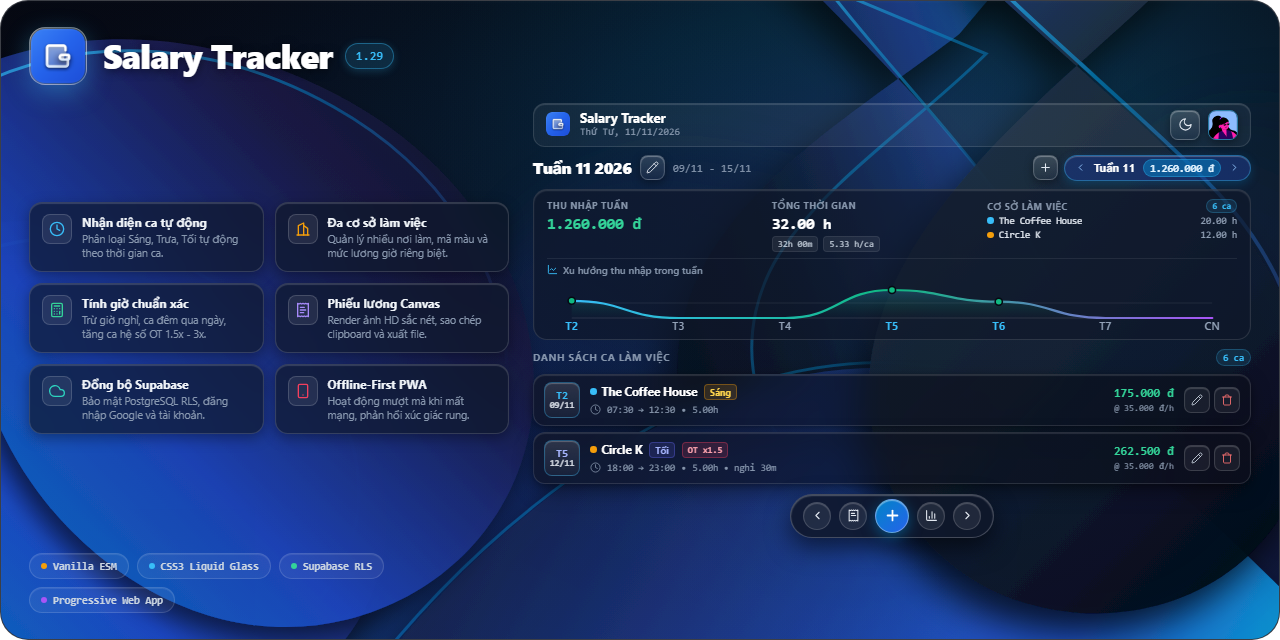
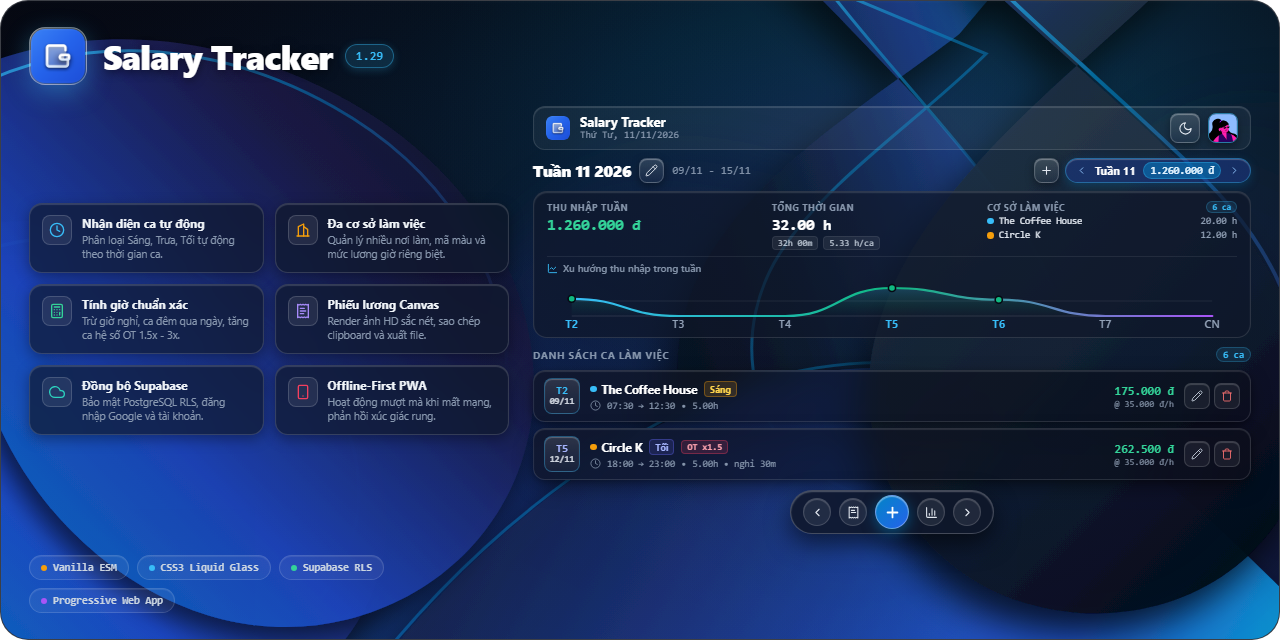
fix(profile): fix password button shadow clipping and remake showcase poster

diff --git a/css/modals.css b/css/modals.css
@@ -1029,7 +1029,7 @@ body.dark-mode .btn-table-delete:hover {
   background: #f8fafc;
   border: 1px solid rgba(15, 23, 42, 0.12);
   border-radius: var(--radius-md);
-  padding: 0.75rem 0.85rem;
+  padding: 0.85rem 0.95rem;
   box-shadow: 0 1px 2px rgba(15, 23, 42, 0.04);
 }
 
@@ -1436,7 +1436,7 @@ input[type="password"] {
   max-height: 540px;
   opacity: 1;
   overflow: visible;
-  padding: 8px 8px 12px;
+  padding: 8px 2px 4px;
   transform: translateY(0) scaleY(1);
   pointer-events: auto;
 }
@@ -2101,10 +2101,46 @@ body.dark-mode .profile-legal-box {
 }
 
 .auth-actions-group {
-  margin-top: 0.35rem;
+  margin-top: 0.55rem;
   display: flex;
   justify-content: flex-end;
-  padding: 4px;
+  align-items: center;
+  padding: 2px 0;
+}
+
+#btnSubmitChangePassword {
+  background: #2563eb !important;
+  border: 1px solid #1d4ed8 !important;
+  color: #ffffff !important;
+  box-shadow: 0 1px 2px rgba(15, 23, 42, 0.08) !important;
+  backdrop-filter: none !important;
+  -webkit-backdrop-filter: none !important;
+  transition: background-color 0.14s ease, border-color 0.14s ease, box-shadow 0.14s ease, transform 0.1s ease !important;
+}
+
+#btnSubmitChangePassword:hover {
+  background: #1d4ed8 !important;
+  border-color: #1e40af !important;
+  box-shadow: 0 2px 4px rgba(15, 23, 42, 0.12) !important;
+}
+
+#btnSubmitChangePassword:active {
+  transform: scale(0.96) !important;
+}
+
+body.dark-mode #btnSubmitChangePassword {
+  background: #2563eb !important;
+  border: 1px solid #3b82f6 !important;
+  color: #ffffff !important;
+  box-shadow: 0 1px 3px rgba(0, 0, 0, 0.4) !important;
+  backdrop-filter: none !important;
+  -webkit-backdrop-filter: none !important;
+}
+
+body.dark-mode #btnSubmitChangePassword:hover {
+  background: #3b82f6 !important;
+  border-color: #60a5fa !important;
+  box-shadow: 0 2px 6px rgba(0, 0, 0, 0.5) !important;
 }
 
 .btn-submit-action {

diff --git a/index.html b/index.html
@@ -39,9 +39,9 @@
     href="https://fonts.googleapis.com/css2?family=Be+Vietnam+Pro:wght@400;500;600;700&family=JetBrains+Mono:wght@400;500;600;700&display=swap"
     rel="stylesheet">
 
-  <link rel="stylesheet" href="./css/base.css?v=20261113">
-  <link rel="stylesheet" href="./css/components.css?v=20261113">
-  <link rel="stylesheet" href="./css/modals.css?v=20261113">
+  <link rel="stylesheet" href="./css/base.css?v=20261120">
+  <link rel="stylesheet" href="./css/components.css?v=20261120">
+  <link rel="stylesheet" href="./css/modals.css?v=20261120">
   <script>
     (function() {
       try {

diff --git a/sw.js b/sw.js
@@ -1,11 +1,11 @@
-const CACHE_NAME = 'salary-tracker-v248';
+const CACHE_NAME = 'salary-tracker-v249';
 const CORE_ASSETS = [
   './',
   './index.html',
   './manifest.json',
-  './css/base.css?v=20261113',
-  './css/components.css?v=20261113',
-  './css/modals.css?v=20261113',
+  './css/base.css?v=20261120',
+  './css/components.css?v=20261120',
+  './css/modals.css?v=20261120',
   './js/app.js?v=20261113',
   './assets/backgrounds/bg-liquid-light.svg?v=20261111r',
   './assets/backgrounds/bg-liquid-dark.svg?v=20261111r',
